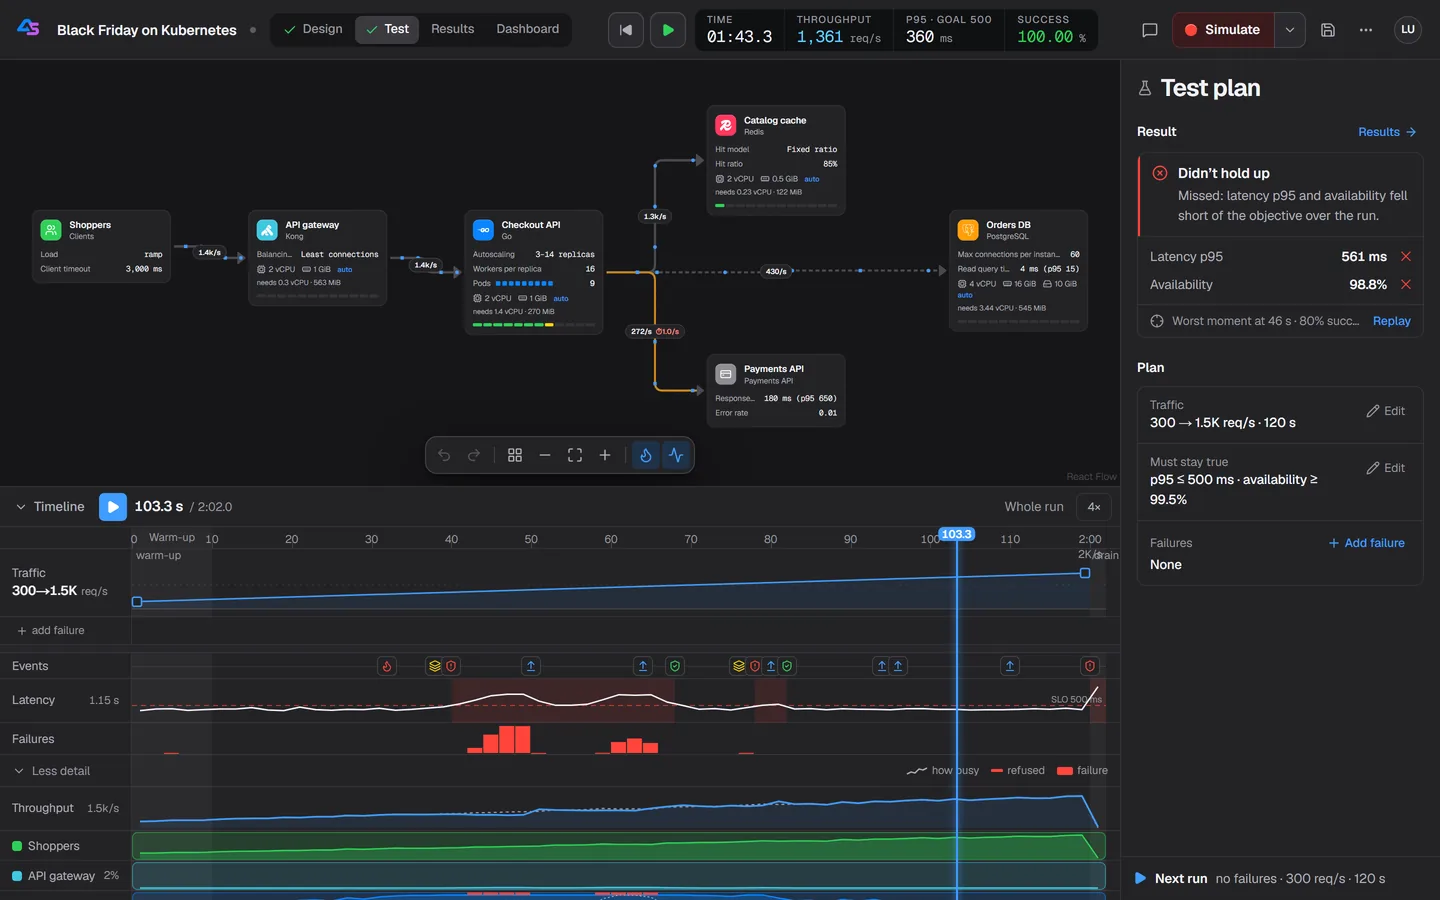
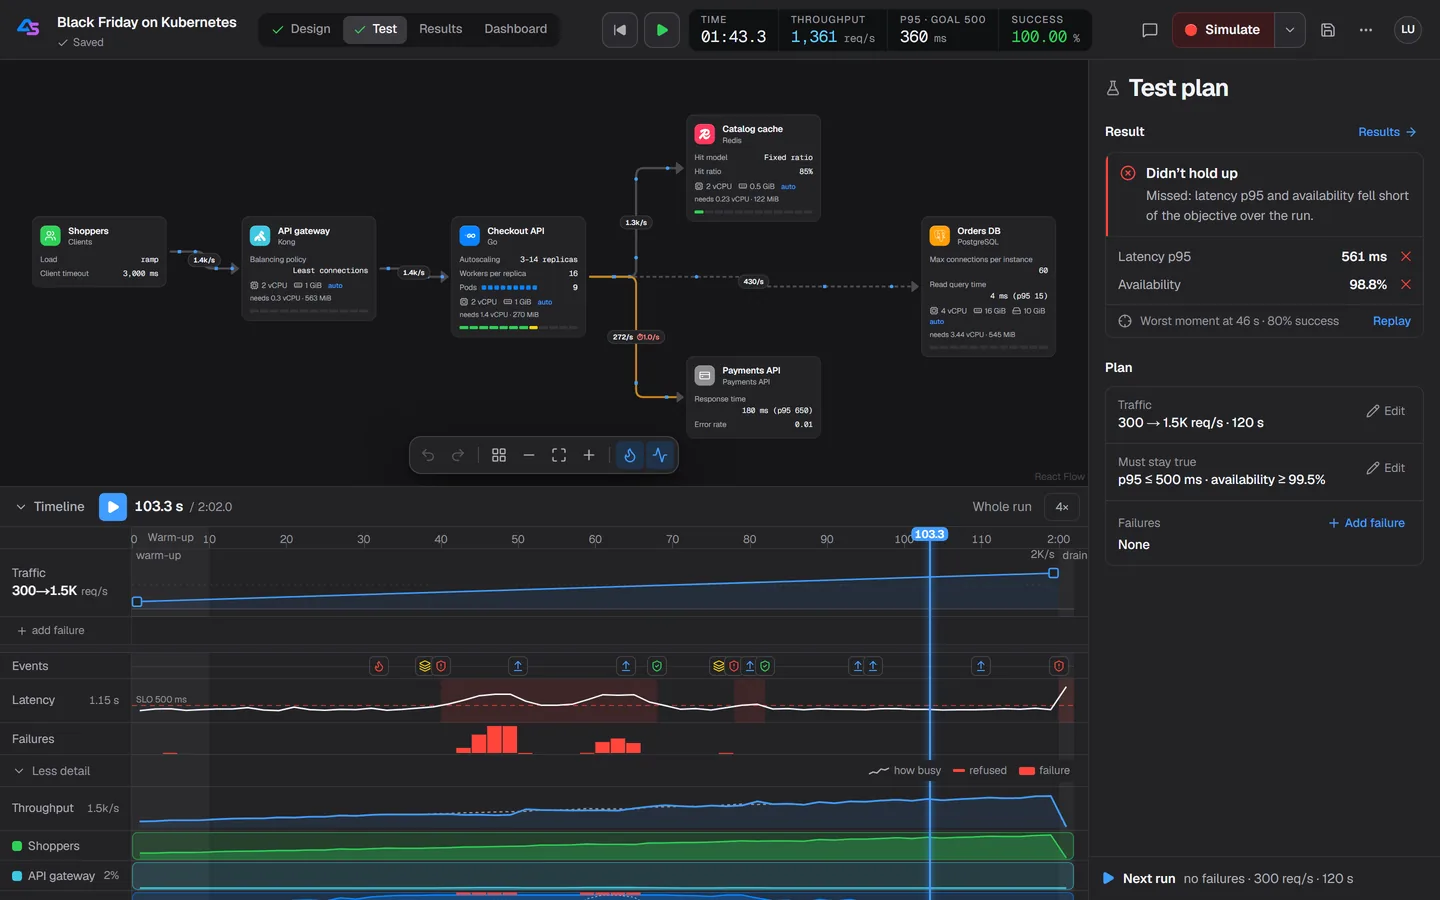
fix(web): keep the timeline's SLO label clear of the p95 curve
The latency lane named its objective's dashed line at the line's right end, under the curve, so a
p95 that climbed through it there struck the label through. As Black Friday's run drains, its p95
spike made "SLO 500 ms" read "SLO 500/ms" in the README's and archsim.io's main screenshot.

The label now goes where the curve leaves it room: above its line at the right end, else at the
left end, else below the line at the right end, then the left. Where the curve crosses all four,
it stays at the right end, drawn over the curve with a halo the curve passes behind, so it reads
whole wherever the curve goes. The curve's points are now worked out once, for the path and for
the check.

The Playwright test compares the label as drawn with the label without the curve, on Black
Friday's own 120 s; unit tests cover each place and the halo. Retaken: editor-results.jpg and its
full-width renditions for the website, which now also show the Test workspace as it is drawn
since #14.

diff --git a/apps/web/src/components/timeline/RecorderLanes.tsx b/apps/web/src/components/timeline/RecorderLanes.tsx
@@ -241,20 +241,107 @@ export function EventRow({ events, endS, onHover }: { events: RecorderEvent[]; e
 // System strips
 // ---------------------------------------------------------------------------------------------
 
-function linePath(series: Series, x: (t: number) => number, y: (v: number) => number, b: number): string {
+/** A point of a strip's curve, in the strip's pixels. */
+type Point = readonly [x: number, y: number];
+
+/** A series' curve, left to right: a point in the middle of each bucket, null where it has no value. */
+function curvePoints(series: Series, x: (t: number) => number, y: (v: number) => number, b: number): (Point | null)[] {
+  return series.map((v, i) => (finite(v) ? ([x(i * b + b / 2), y(v)] as const) : null));
+}
+
+/** The SVG path through a curve's points, lifting the pen at each gap. */
+function pathThrough(points: readonly (Point | null)[]): string {
   let d = "";
   let pen = false;
-  series.forEach((v, i) => {
-    if (!finite(v)) {
+  for (const p of points) {
+    if (!p) {
       pen = false;
-      return;
+      continue;
     }
-    const px = x(i * b + b / 2).toFixed(1);
-    const py = y(v).toFixed(1);
-    d += `${pen ? "L" : "M"}${px},${py}`;
+    d += `${pen ? "L" : "M"}${p[0].toFixed(1)},${p[1].toFixed(1)}`;
     pen = true;
-  });
+  }
   return d;
+}
+
+function linePath(series: Series, x: (t: number) => number, y: (v: number) => number, b: number): string {
+  return pathThrough(curvePoints(series, x, y, b));
+}
+
+/** The latency strip's SLO label, 9 px text. */
+const SLO_FONT = 9;
+/** The room its text takes, at most: Geist's characters average under 0.65 em (0.57 in "SLO 500 ms"). */
+const sloTextWidth = (text: string) => text.length * SLO_FONT * 0.65;
+/** Its line box above and below the baseline: Geist's 1.005 and 0.295 em, which a browser may round to 9 and 3 px. */
+const SLO_ASCENT = 9.1;
+const SLO_DESCENT = 3;
+/** How far its capitals and figures rise above the baseline. */
+const SLO_CAPS = 7;
+/** From either end of the strip to the label, and from the SLO line to the label's text. */
+const SLO_INSET = 4;
+const SLO_GAP = 3;
+/** Room kept between the label's line box and the p95 curve's centre line: half the curve's 1.5 px stroke and its anti-aliasing, with a pixel to spare. */
+const SLO_CLEAR = 2.5;
+/** A halo in the strip's colour, wide enough to close the gaps between the label's words: the curve passes behind the label. */
+const SLO_HALO = { stroke: "var(--surface)", strokeWidth: 4, strokeLinejoin: "round", paintOrder: "stroke" } as const;
+
+/** Where the SLO label's text is anchored (`y` is its baseline), and whether it needs a halo to read over the curve. */
+export interface SloLabelPlace {
+  x: number;
+  y: number;
+  anchor: "start" | "end";
+  halo: boolean;
+}
+
+interface Box {
+  x0: number;
+  x1: number;
+  y0: number;
+  y1: number;
+}
+
+/** Whether the curve, a line from each point to the next and a gap at each null, passes through the box. */
+function crosses(curve: readonly (Point | null)[], box: Box): boolean {
+  for (let i = 1; i < curve.length; i++) {
+    const [a, b] = [curve[i - 1], curve[i]];
+    if (!a || !b) continue;
+    const x0 = Math.max(a[0], box.x0);
+    const x1 = Math.min(b[0], box.x1);
+    if (x0 > x1) continue;
+    const yAt = (x: number) => a[1] + ((x - a[0]) / (b[0] - a[0])) * (b[1] - a[1]);
+    const [ya, yb] = [yAt(x0), yAt(x1)];
+    if (Math.max(ya, yb) >= box.y0 && Math.min(ya, yb) <= box.y1) return true;
+  }
+  return false;
+}
+
+/**
+ * Where the latency strip's SLO label goes. Above its line at the right end; else above it at the
+ * left end; else below it at the right end, then the left: the first of these places inside the
+ * strip that the p95 curve leaves clear. Where the curve crosses every place, the label stays above
+ * its line at the right end, over the curve with a halo, so it reads whole wherever the curve goes.
+ */
+export function placeSloLabel(
+  text: string,
+  lineY: number,
+  curve: readonly (Point | null)[],
+  strip: { width: number; height: number },
+): SloLabelPlace {
+  const width = sloTextWidth(text);
+  const [right, left] = [strip.width - SLO_INSET, SLO_INSET];
+  const [above, below] = [lineY - SLO_GAP, lineY + SLO_GAP + SLO_CAPS];
+  const places: SloLabelPlace[] = [
+    { x: right, y: above, anchor: "end", halo: false },
+    { x: left, y: above, anchor: "start", halo: false },
+    { x: right, y: below, anchor: "end", halo: false },
+    { x: left, y: below, anchor: "start", halo: false },
+  ];
+  const clear = places.find(({ x, y, anchor }) => {
+    const [x0, top, bottom] = [anchor === "start" ? x : x - width, y - SLO_ASCENT, y + SLO_DESCENT];
+    const inside = top >= 0 && bottom <= strip.height;
+    return inside && !crosses(curve, { x0: x0 - SLO_CLEAR, x1: x0 + width + SLO_CLEAR, y0: top - SLO_CLEAR, y1: bottom + SLO_CLEAR });
+  });
+  return clear ?? { ...places[0], halo: true };
 }
 
 function StripLabel({ title, max, hint }: { title: string; max?: string; hint?: string }) {
@@ -336,20 +423,31 @@ const LatencyStrip = memo(function LatencyStrip({
   const y = (v: number) => H - 3 - (Math.min(v, max) / max) * (H - 8);
   const compliance = useMemo(() => sloTimeline(objectives, ts), [objectives, ts]);
   const cw = x(b);
+  const curve = curvePoints(ts.latencyP95Ms, x, y, b);
+  const sloText = slo != null ? `SLO ${fmtMs(slo)}` : "";
+  const label = slo != null ? placeSloLabel(sloText, y(slo), curve, { width: plotWidth, height: H }) : null;
   return (
     <svg width={plotWidth} height={H} className="absolute inset-0" aria-hidden>
       {compliance.map((ok, i) =>
         ok === false ? <rect key={i} x={x(i * b)} y={0} width={Math.max(1, cw)} height={H} fill="var(--status-critical)" fillOpacity={0.12} /> : null,
       )}
       {slo != null && (
-        <>
-          <line x1={0} x2={plotWidth} y1={y(slo)} y2={y(slo)} stroke="var(--status-critical)" strokeOpacity={0.7} strokeWidth={1} strokeDasharray="5 4" />
-          <text x={plotWidth - 4} y={y(slo) - 3} textAnchor="end" fontSize={9} fontFamily="var(--font-mono)" fill="var(--ink-3)">
-            SLO {fmtMs(slo)}
-          </text>
-        </>
+        <line x1={0} x2={plotWidth} y1={y(slo)} y2={y(slo)} stroke="var(--status-critical)" strokeOpacity={0.7} strokeWidth={1} strokeDasharray="5 4" />
       )}
-      <path d={linePath(ts.latencyP95Ms, x, y, b)} fill="none" stroke="var(--ink)" strokeWidth={1.5} strokeLinejoin="round" />
+      <path d={pathThrough(curve)} fill="none" stroke="var(--ink)" strokeWidth={1.5} strokeLinejoin="round" />
+      {label && (
+        <text
+          x={label.x}
+          y={label.y}
+          textAnchor={label.anchor}
+          fontSize={SLO_FONT}
+          fontFamily="var(--font-mono)"
+          fill="var(--ink-3)"
+          {...(label.halo ? SLO_HALO : {})}
+        >
+          {sloText}
+        </text>
+      )}
     </svg>
   );
 });

diff --git a/apps/web/e2e/timeline.spec.ts b/apps/web/e2e/timeline.spec.ts
@@ -1,0 +1,62 @@
+/**
+ * The Test workspace's timeline. The latency lane's SLO label stays readable wherever the p95 curve
+ * goes.
+ */
+import { type APIRequestContext, expect, type Page, test } from "@playwright/test";
+
+/** Black Friday's own length; the e2e server shortens every template to 20 s. */
+const FULL_LENGTH = { durationS: 120, warmupS: 10 };
+
+/** A Black Friday project with one finished run of its design, optionally at another length. */
+async function blackFriday(request: APIRequestContext, length?: typeof FULL_LENGTH): Promise<string> {
+  const created = await request.post("/api/v1/projects", { data: { exampleId: "black-friday-kubernetes" } });
+  expect(created.status()).toBe(201);
+  const project = await created.json();
+  if (length) {
+    const document = { ...project.document, workload: { ...project.document.workload, ...length } };
+    expect((await request.put(`/api/v1/projects/${project.id}`, { data: { document } })).status()).toBe(200);
+  }
+  const run = await request.post(`/api/v1/projects/${project.id}/runs`, { data: {} });
+  expect(run.status()).toBe(202);
+  const runId = (await run.json()).id as string;
+  await expect
+    .poll(async () => (await (await request.get(`/api/v1/runs/${runId}`)).json()).status, { timeout: 60_000, intervals: [500] })
+    .toBe("succeeded");
+  return project.id;
+}
+
+/** Open the Test workspace of a new Black Friday project with its run on the timeline. */
+async function openTimeline(page: Page, length?: typeof FULL_LENGTH) {
+  const project = await blackFriday(page.request, length);
+  await page.addInitScript(() => {
+    try {
+      localStorage.setItem("archsim-tour-v1", "1");
+    } catch {
+      /* storage unavailable */
+    }
+  });
+  await page.goto(`/projects/${project}`);
+  await expect(page.getByTestId("transport-lcd")).not.toHaveAttribute("aria-label", "No run yet");
+  await page.getByTestId("workspace-stress").filter({ visible: true }).click();
+  await expect(page.getByRole("img", { name: "Offered load over the run" })).toBeVisible();
+}
+
+test("the latency lane's SLO label reads whole where Black Friday's p95 spikes at the end of its own 120 s", async ({ page }) => {
+  await openTimeline(page, FULL_LENGTH);
+  const strip = page.locator('[data-lane="latency"] svg');
+  const label = strip.locator("text", { hasText: "SLO 500 ms" });
+  await page.mouse.move(0, 0);
+
+  const plot = await strip.boundingBox();
+  const box = await label.boundingBox();
+  if (!plot || !box) throw new Error("the latency lane or its SLO label is not on screen");
+  const asDrawn = await page.screenshot({ clip: box });
+  await strip.locator("path").evaluate((curve) => curve.setAttribute("visibility", "hidden"));
+  const withoutCurve = await page.screenshot({ clip: box });
+
+  expect(box.x, "the label starts inside the lane").toBeGreaterThanOrEqual(plot.x);
+  expect(box.x + box.width, "the label ends inside the lane").toBeLessThanOrEqual(plot.x + plot.width);
+  expect(box.y, "the label's top is inside the lane").toBeGreaterThanOrEqual(plot.y);
+  expect(box.y + box.height, "the label's bottom is inside the lane").toBeLessThanOrEqual(plot.y + plot.height);
+  expect(asDrawn.equals(withoutCurve), "the p95 curve leaves the label as it would be without the curve").toBe(true);
+});

diff --git a/apps/web/src/components/timeline/RecorderLanes.test.ts b/apps/web/src/components/timeline/RecorderLanes.test.ts
@@ -1,0 +1,62 @@
+import { describe, expect, it } from "vitest";
+import { placeSloLabel } from "./RecorderLanes";
+
+/** The latency strip as the README's hero shot draws it: 974 px wide and 44 px tall, its SLO line at about 26.5 px. */
+const STRIP = { width: 974, height: 44 };
+const LINE = 26.5;
+const TEXT = "SLO 500 ms";
+
+/** A p95 curve across the strip, a point every 16 px as a 120 s run's 2 s buckets draw it, at the heights `at` gives (null: no data). */
+function curve(at: (x: number) => number | null): ([number, number] | null)[] {
+  return Array.from({ length: 61 }, (_, i) => {
+    const x = 8 + i * 16;
+    const y = at(x);
+    return y == null ? null : [x, y];
+  });
+}
+
+describe("placeSloLabel", () => {
+  it("sets the label above its line at the right end when the curve leaves that clear", () => {
+    const placed = placeSloLabel(TEXT, LINE, curve(() => LINE + 5), STRIP);
+
+    expect(placed).toEqual({ x: 970, y: 23.5, anchor: "end", halo: false });
+  });
+
+  it("moves the label to its line's left end when the curve climbs through the right end, as Black Friday's p95 does as its run drains", () => {
+    const spike = curve((x) => (x < 960 ? LINE + 3.4 : 7.7));
+
+    const placed = placeSloLabel(TEXT, LINE, spike, STRIP);
+
+    expect(placed).toEqual({ x: 4, y: 23.5, anchor: "start", halo: false });
+  });
+
+  it("sets the label below its line when the curve runs above the line at both ends", () => {
+    const placed = placeSloLabel(TEXT, LINE, curve(() => 18), STRIP);
+
+    expect(placed).toEqual({ x: 970, y: 36.5, anchor: "end", halo: false });
+  });
+
+  it("sets the label below its line only where the strip has room for it", () => {
+    const low = 36;
+
+    const placed = placeSloLabel(TEXT, low, curve(() => 30), STRIP);
+
+    expect(placed).toEqual({ x: 970, y: 33, anchor: "end", halo: true });
+  });
+
+  it("keeps the label above its line at the right end, with a halo the curve passes behind, when the curve crosses every place", () => {
+    const zigzag = curve((x) => (((x - 8) / 16) % 2 === 0 ? 16 : 36));
+
+    const placed = placeSloLabel(TEXT, LINE, zigzag, STRIP);
+
+    expect(placed).toEqual({ x: 970, y: 23.5, anchor: "end", halo: true });
+  });
+
+  it("reads a point between two gaps in the data as no line at all", () => {
+    const lone = curve((x) => (x < 900 ? LINE + 5 : x === 952 ? 18 : null));
+
+    const placed = placeSloLabel(TEXT, LINE, lone, STRIP);
+
+    expect(placed).toEqual({ x: 970, y: 23.5, anchor: "end", halo: false });
+  });
+});

diff --git a/CHANGELOG.md b/CHANGELOG.md
@@ -53,6 +53,13 @@ for when that version changes.
   through the API the worker stopped such a run 30 s past the limit and failed it. The sample and
   the whole run now share one clock, so such a quick check can be stopped where a full run of the
   same design finishes, and its report's wall time counts the sample too.
+- **The SLO label in the Test timeline reads whole wherever the p95 curve goes.** The latency lane
+  named the objective's dashed line at its right end, under the curve, so a p95 that climbed through
+  it there struck the label through: as Black Friday's run drains, its p95 spike made "SLO 500 ms"
+  read "SLO 500/ms" in the README's and archsim.io's main screenshot. The label now sits at
+  whichever end of its line, above or below it, the curve leaves clear, and over the curve with a
+  halo when the curve crosses every such place. That screenshot and its renditions for the website
+  are retaken.
 
 ## [1.6.0] - 2026-11-27
 
